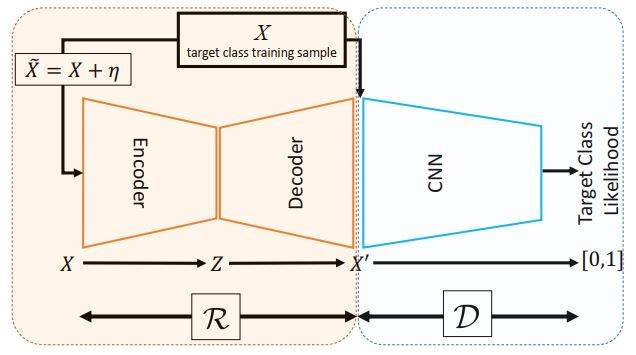
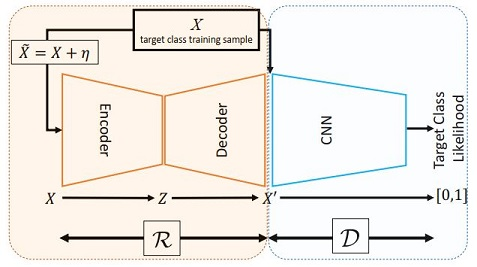
skipgan

diff --git a/_posts/2021-11-01-ad.md b/_posts/2021-11-01-ad.md
@@ -31,6 +31,15 @@ Image Anomaly Detection](https://ieeexplore.ieee.org/document/9513473)
 
     这篇论文的特点在于也采用了 memory module。不过和 MemAE 中的结构不同，这里的记忆模块不是可训练参数，而更像是队列这种数据结构，里面存储大量的（2048个）键值对。key 是结构提取网络得到的结构特征，value 是图像 encoder 之后的隐变量特征。在测试时将 memory module 中最接近的结构特征作为 key，将对应的value输出到decoder得到子重建图像
 
+* [Skip-GANomaly: Skip Connected and Adversarially Trained Encoder-Decoder Anomaly Detection](https://arxiv.org/pdf/1901.08954.pdf)
+
+    类似于 ALOCC，同样是结合了重建网络和判别网络，并采用 GAN 的方式进行训练。不同的是，这里测试时主要利用的是重建网络，判别网络此时用于提取原图像和重建图像隐变量特征空间（取最后一层卷积的输出）。将图像重建误差与对应的feature map误差的和作为检测异常的标准
+
+    ![SkipGAN](/images/skipgan.JPG)
+
+    这篇论文的原理在于分别利用重建网络和判别网络，同时重建图像空间和特征空间，期望模型能够在图像空间或者特征空间上成功地重建正常图像。
+
+
 ## Restoration Based Methods
 
 这种方法是对原始图像进行一些干扰操作（裁剪，消除，旋转等），通过神经网络恢复输入图像，并以最小化恢复图像和原始图像间的差距作为训练目标。这种方法类似于重建方法，测试时同样对图像进行不同的干扰操作，利用恢复误差判断图像的异常程度。此外，这种方法还可以用来定位异常区域。
